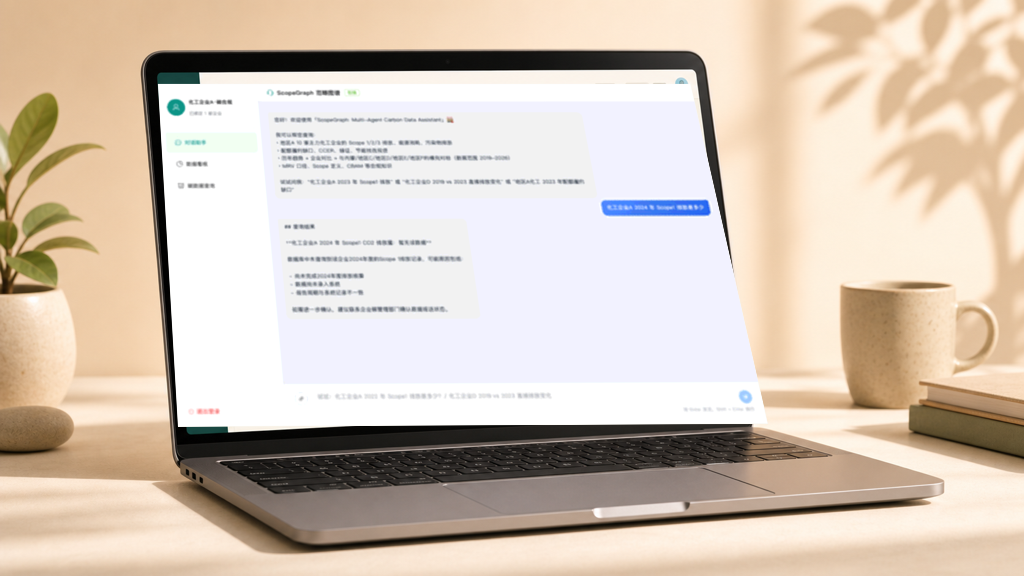
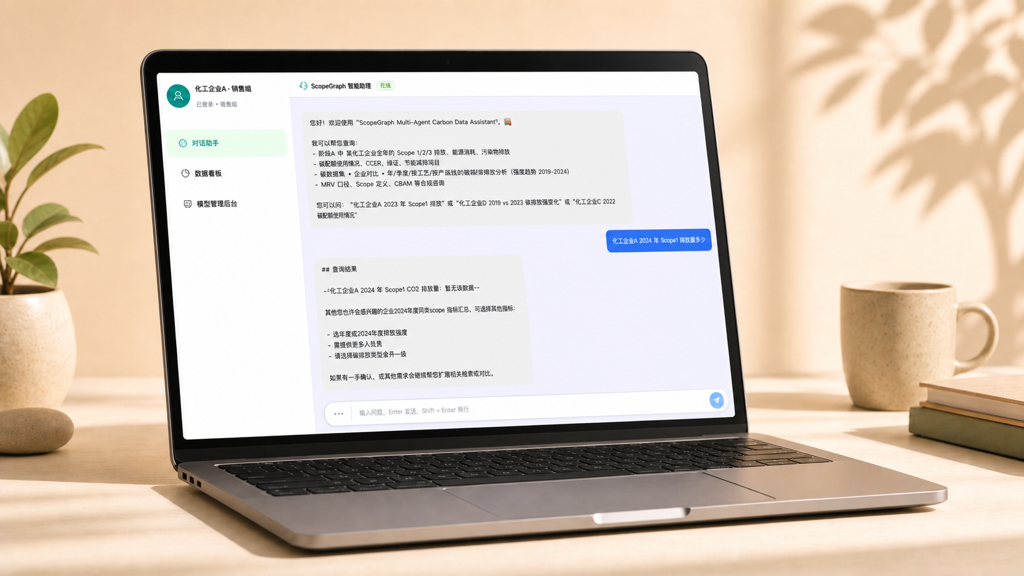
fix ScopeGraph cover so chat UI fits inside laptop screen

diff --git a/_portfolio/02-co2-copilot.md b/_portfolio/02-co2-copilot.md
@@ -1,6 +1,6 @@
 ---
 title: "ScopeGraph · Multi-Agent GraphRAG Carbon Assistant"
-excerpt: "A LangGraph supervisor over 5 sub-agents on a Neo4j carbon knowledge graph. Hybrid Text2Cypher + vector retrieval, 3-layer per-tenant data isolation (JWT → state → Cypher whitelist), LLM-as-Judge grounding check, SSE streaming.<br/><img src='/images/proj-co2copilot.png?v=9' style='max-width:520px'>"
+excerpt: "A LangGraph supervisor over 5 sub-agents on a Neo4j carbon knowledge graph. Hybrid Text2Cypher + vector retrieval, 3-layer per-tenant data isolation (JWT → state → Cypher whitelist), LLM-as-Judge grounding check, SSE streaming.<br/><img src='/images/proj-co2copilot.png?v=10' style='max-width:520px'>"
 collection: portfolio
 date: 2024-09-01
 permalink: /portfolio/scopegraph/